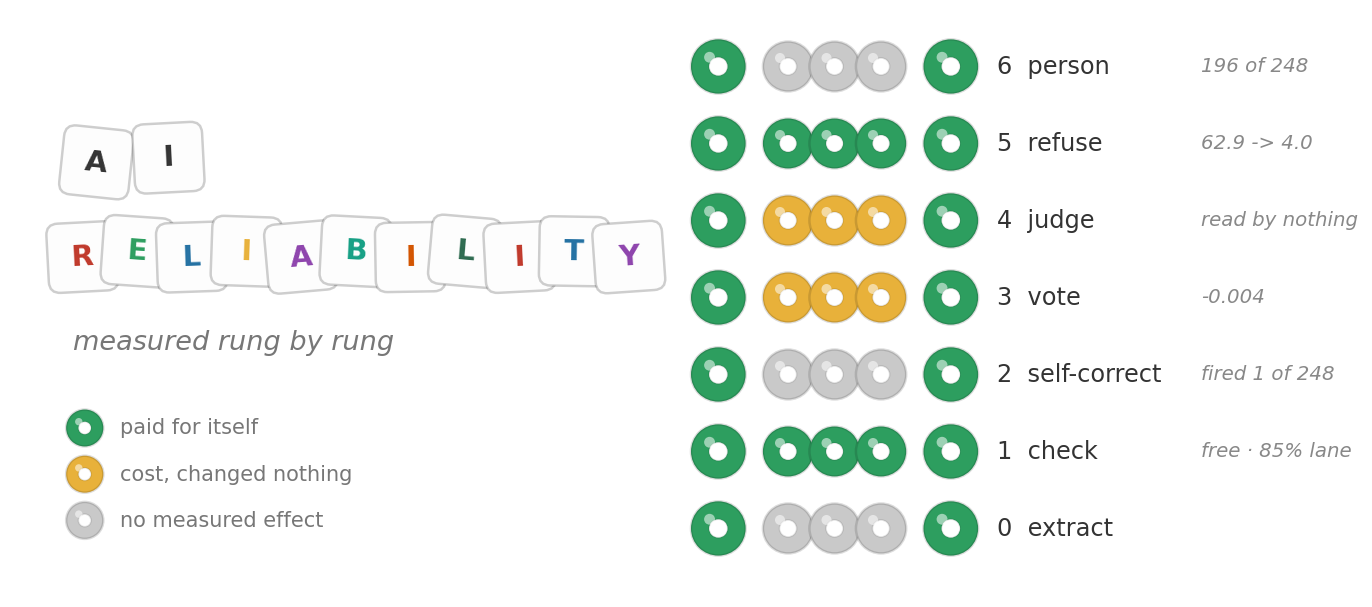
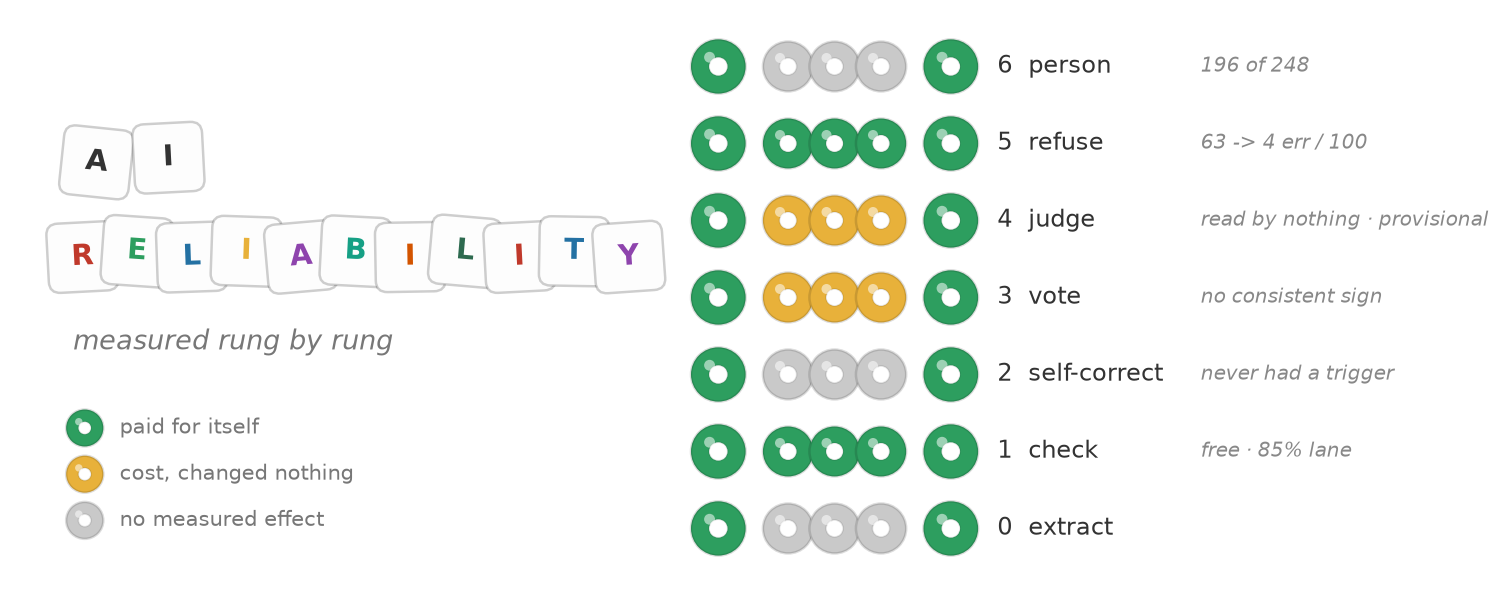
the header claimed no open questions while the article carried seven
"No claim is open" had been false since the first PENDING marker went in, and
the article now has seven — including one that makes every rung 4 result
provisional. Replaced with a block that says what is settled, what is open, and
names the largest open item.

"And it held" was false as of this morning too: the ceiling claim was verified
against CONORM's paper and holds only in the weaker form, since the strongest
fine-tuned tagger on CADEC clears our ~0.70 cap by four points. Two stale
pointers to section 9 for material that moved to section 2 are fixed, and the
subtitle's "seven reliability layers around a language model" is now six, which
is what the next section says.

Figure 1 carried "62.9 -> 4.0" on its refuse row — the unsourced pair removed
from takeaway 5 an hour earlier. Now 63 -> 4. Three other rows updated to what
the review established, including the judge's marked provisional.

diff --git a/docs/figures/fig0.py b/docs/figures/fig0.py
@@ -9,10 +9,10 @@ GREEN, AMBER, GREY, RED = "#2d9e5f", "#e8b13a", "#c9c9c9", "#c94f4f"
 RUNGS = [
     ("0  extract",      GREY,  ""),
     ("1  check",        GREEN, "free · 85% lane"),
-    ("2  self-correct", GREY,  "fired 1 of 248"),
-    ("3  vote",         AMBER, "-0.004"),
-    ("4  judge",        AMBER, "read by nothing"),
-    ("5  refuse",       GREEN, "62.9 -> 4.0"),
+    ("2  self-correct", GREY,  "never had a trigger"),
+    ("3  vote",         AMBER, "no consistent sign"),
+    ("4  judge",        AMBER, "read by nothing \u00b7 provisional"),
+    ("5  refuse",       GREEN, "63 -> 4 err / 100"),
     ("6  person",       GREY,  "196 of 248"),
 ]
 

diff --git a/docs/decisions.md b/docs/decisions.md
@@ -4767,3 +4767,37 @@ Takeaway 5 rewritten around it. What it displaced — the three named measuremen
 errors, the blind judge, the reranker's one-draw interval, the voting gain that
 reversed — survives as one clause here and in full in §8, which exists to tell
 that story with its examples.
+
+## 2026-09-03 — the header block said "No claim is open" while the article carried seven PENDING markers
+
+Owner asked whether the title block and Figure 1 needed updating after the
+review. Both did, and the header was the worst single line in the article.
+
+**"No claim is open" was false**, and had been since the first PENDING marker
+went in. The article now carries seven, including one that makes every rung 4
+result provisional. Replaced with "Where this stands", which says what is
+settled, what is open, and names the largest open item rather than claiming
+there is none.
+
+**"and it held" was also false as of today.** The ceiling claim was verified
+against CONORM's paper this morning and it held only in the weaker form: three
+fine-tuned taggers score 70.4, 71.7 and 74.4 span-exact on CADEC detection, so
+the best supervised system clears our ~0.70 cap by four points. The header now
+says so.
+
+**Two stale section pointers.** The block cited "§9" twice for the
+retrieval-is-a-ceiling material, which moved to §2 when §8 was deleted into it;
+§9 is now the literature section. Both corrected, and written as "section N"
+rather than "§N" to match the rest of the article's prose.
+
+**"Seven reliability layers around a language model" -> "Six".** The article
+counts six layers ABOVE the model plus rung 0, and says so in the next section.
+The subtitle had been contradicting it since the restructure.
+
+**FIGURE 1 carried the unsourced error pair.** Its refuse row read "62.9 -> 4.0",
+the same numbers removed from takeaway 5 an hour earlier for appearing nowhere in
+the article or in this file. Now "63 -> 4 err / 100". Three other rows updated to
+what the review established: self-correct "fired 1 of 248" -> "never had a
+trigger", vote "-0.004" -> "no consistent sign" (the -0.004 is one draw), and
+judge "read by nothing" -> "read by nothing - provisional". `docs/figures/fig0.py`
+regenerated; matplotlib added to the venv, which did not have it.

diff --git a/docs/article-v3.md b/docs/article-v3.md
@@ -1,23 +1,26 @@
 # The AI Reliability Ladder, Measured Rung by Rung
 
-> **No claim is open.** The two that were at risk have both been checked.
-> CADEC's boundary convention caps span-exact scores near 0.70 — verified
-> against the strongest published system on this corpus, and it held. And
-> §9's *"retrieval is a ceiling"* rested on a general-purpose 30M embedder
-> where this task's literature uses domain-adapted ones; we swapped in
-> SapBERT and measured it. It puts gold on the menu more often across the
-> corpus and made the system **worse**, three draws for three. §9 now carries
-> that result. Everything here is measured, labelled by split, and cited.
+> **Where this stands.** Every number here is measured, labelled by split, and
+> traceable to the run that produced it. Two claims that were at risk have been
+> checked against their sources: the ~0.70 span-exact ceiling holds in the region
+> we predicted, though the strongest supervised tagger on this corpus clears it by
+> four points (section 9); and *"retrieval is a ceiling"* was tested by swapping
+> our general-purpose embedder for the domain-adapted one this literature uses —
+> which puts gold on the menu more often and made the system **worse**, three
+> draws for three (section 2). Seven items remain open, marked **[PENDING]** where
+> they appear. The largest: our second-model judge was measured before we found we
+> had never shown it what a code means, so every result about it is provisional.
 
 **Pushpdeep Mishra · Wejdan Bagais**
 
-*Seven reliability layers around a language model, measured one at a time on two
+*Six reliability layers around a language model, measured one at a time on two
 tasks with real answer keys — what each one bought, and what it charged.*
 
 ![Figure 1](figures/fig0-hero.png)
 
 *Fig. 1: The seven rungs, coloured by what each one bought. The two that mattered
-cost nothing. Source: author-created with Matplotlib.*
+cost nothing; the judge's row is provisional. Source: author-created with
+Matplotlib.*
 
 ---
 
